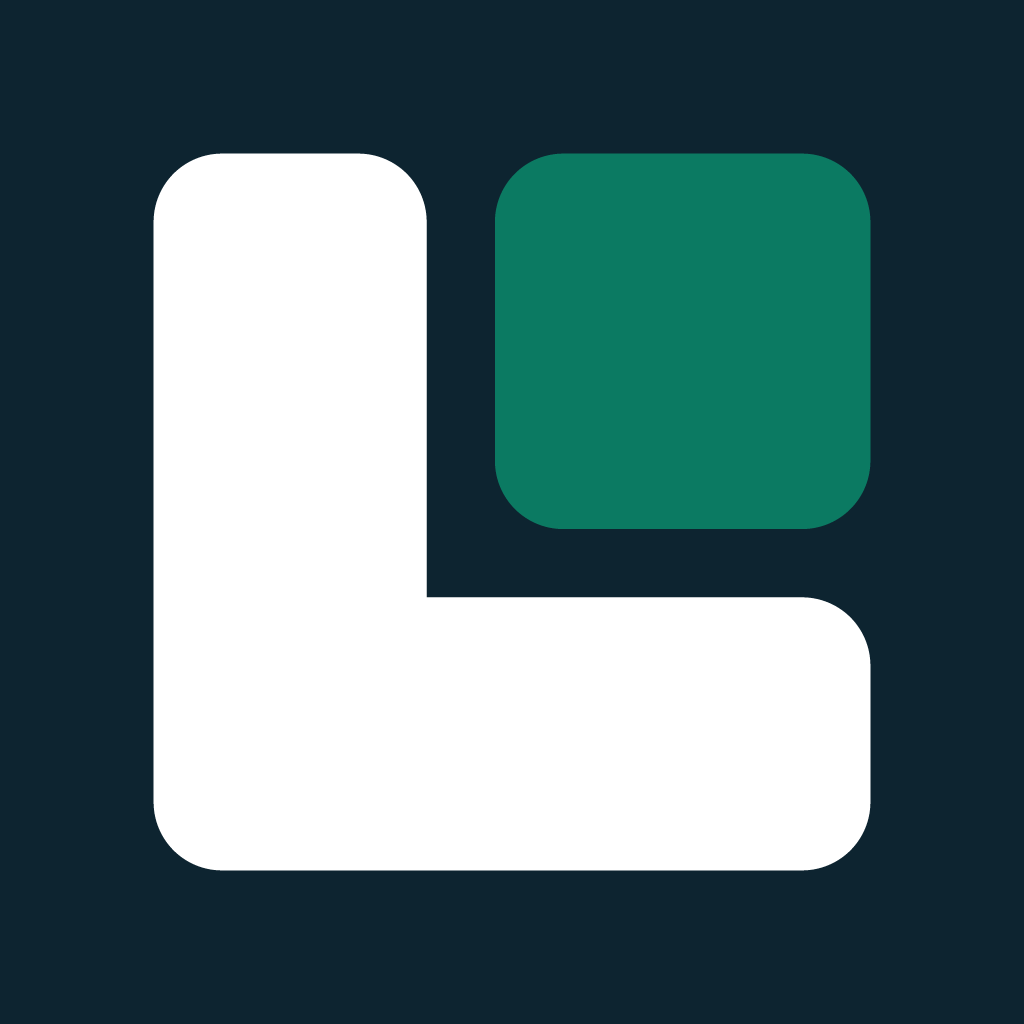
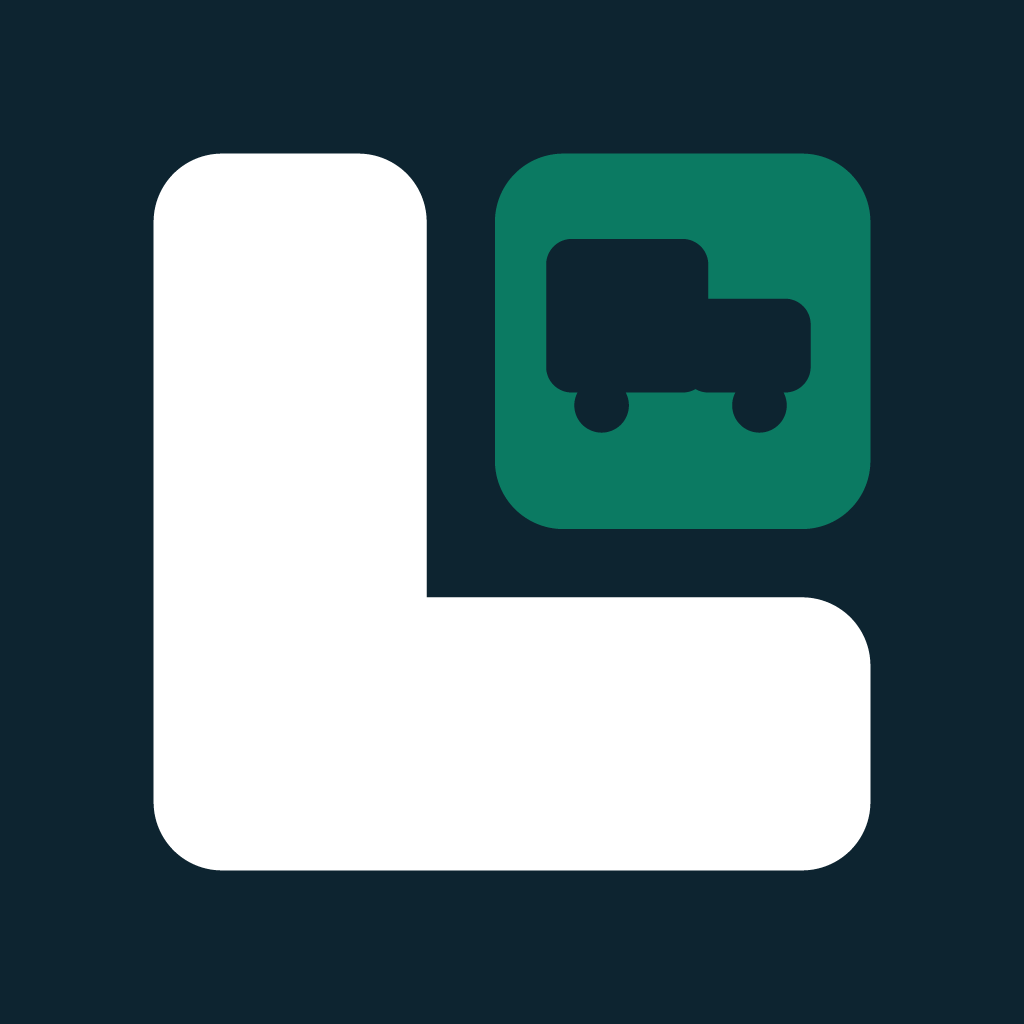
Cut a truck out of the reserve square
Asked for on the marks artifact: "this but the green block is a truck."

Cut out of the square rather than standing in for it, and that is the whole
decision. The square's mass is what carried this mark at 16px. A truck
silhouette in its place is four shapes where there was one, and by 32px they
merge into a blob with no edge of its own — precisely the cost the old box-truck
icon was already paying, and the reason it was replaced. Knocked out, the mark
degrades in the right order: a truck close up, a green square far away, and the
square was the mark to begin with.

What it trades is the meaning. The empty corner was the reserve the sizing model
holds back, so the brand colour marked the space you were right NOT to fill. A
truck fills it, and the mark now says "there is a truck" — which is what every
competitor's mark says. Taken deliberately: the risk recorded against this
direction was that it said nothing about moving on its own, and a meaning nobody
can read without being told is not doing much work. Both readings are drawn side
by side, at every size, in section 02b of the artifact.

The knockout takes the ground's colour rather than a literal ink. That matters on
the Android foreground, where the ground is null: the truck cuts through to
transparency and app.json's ink shows through, instead of baking a second copy of
the background into a layer whose entire job is to not contain one. In the SVG it
[…]

Changed region(s): [[0.5312, 0.2188, 0.8125, 0.4375]]

diff --git a/src/ui/markGeometry.ts b/src/ui/markGeometry.ts
@@ -10,9 +10,7 @@
  *
  * The mark is an L built from two cargo blocks: a tall piece standing on end and
  * a heavy base, low and forward, which is the profile of a correctly loaded bed.
- * The square fills the notch the L leaves. That notch is the point — it is the
- * safety reserve the sizing model holds back, so the brand colour marks the space
- * you were right not to fill.
+ * A green square fills the notch the L leaves, with a truck cut out of it.
  */
 
 /** Every coordinate below is on this square. Assets scale it; nothing re-draws it. */
@@ -44,6 +42,32 @@ export const RESERVE: Box = { x0: 58, y0: 18, x1: 102, y1: 62 };
 export const CORNER_R = 8;
 /** The tile's own radius, used only where nothing else supplies a mask. */
 export const TILE_R = 26;
+
+/**
+ * The truck cut out of the reserve square.
+ *
+ * Cut out rather than standing in for it, and that is the whole decision. The
+ * square's mass is what carried this mark at 16px; a truck silhouette in its
+ * place is four shapes where there was one, and by 32px they merge into a blob
+ * with no edge of its own — which is the cost the old box-truck icon was already
+ * paying. Knocked out, the mark degrades in the right order: a truck close up, a
+ * green square far away, and the square was the mark to begin with.
+ *
+ * What it trades is the meaning. The empty corner used to be the reserve the
+ * sizing model holds back, so the brand colour marked the space you were right
+ * NOT to fill. A truck fills it. That is a real loss, taken deliberately: a
+ * meaning nobody can read without being told it is not doing much work, and one
+ * moment of recognition is worth more than a private joke.
+ */
+export const TRUCK_BODY: Box = { x0: 64, y0: 28, x1: 83, y1: 46 };
+/** Overlaps the body, so the rounded corners do not leave a notch at the seam. */
+export const TRUCK_CAB: Box = { x0: 80, y0: 35, x1: 95, y1: 46 };
+export const TRUCK_R = 3;
+/** Wheels are what say "vehicle" rather than "stepped rectangle". */
+export const TRUCK_WHEELS = [
+  { cx: 70.5, cy: 47.5, r: 3.2 },
+  { cx: 89, cy: 47.5, r: 3.2 },
+] as const;
 
 export const MARK_INK = '#0D2430';
 export const MARK_WHITE = '#FFFFFF';

diff --git a/src/ui/Mark.tsx b/src/ui/Mark.tsx
@@ -1,5 +1,5 @@
 import { Platform } from 'react-native';
-import Svg, { Path, Rect } from 'react-native-svg';
+import Svg, { Circle, Path, Rect } from 'react-native-svg';
 import {
   CORNER_R,
   GRID,
@@ -8,6 +8,10 @@ import {
   MARK_WHITE,
   RESERVE,
   TILE_R,
+  TRUCK_BODY,
+  TRUCK_CAB,
+  TRUCK_R,
+  TRUCK_WHEELS,
   markPath,
 } from './markGeometry';
 
@@ -41,6 +45,31 @@ export function Mark({
         rx={CORNER_R}
         fill={MARK_PINE}
       />
+      {/*
+        Painted in ink rather than masked out. On the tile the ground IS ink, so
+        this is a true knockout; off the tile the L is ink too, so a dark truck on
+        the green square reads the same. One fill covers both, and an SVG <Mask>
+        would have needed a unique id per instance for no visible gain.
+      */}
+      <Rect
+        x={TRUCK_BODY.x0}
+        y={TRUCK_BODY.y0}
+        width={TRUCK_BODY.x1 - TRUCK_BODY.x0}
+        height={TRUCK_BODY.y1 - TRUCK_BODY.y0}
+        rx={TRUCK_R}
+        fill={MARK_INK}
+      />
+      <Rect
+        x={TRUCK_CAB.x0}
+        y={TRUCK_CAB.y0}
+        width={TRUCK_CAB.x1 - TRUCK_CAB.x0}
+        height={TRUCK_CAB.y1 - TRUCK_CAB.y0}
+        rx={TRUCK_R}
+        fill={MARK_INK}
+      />
+      {TRUCK_WHEELS.map((wheel) => (
+        <Circle key={wheel.cx} cx={wheel.cx} cy={wheel.cy} r={wheel.r} fill={MARK_INK} />
+      ))}
     </Svg>
   );
 }

diff --git a/README.md b/README.md
@@ -117,9 +117,20 @@ screen that is not in the flow would have to invent an answer to what comes next
 ### The mark
 
 An L built from two cargo blocks — a tall piece standing on end and a heavy base, low and
-forward, which is the profile of a correctly loaded bed. The green square fills the notch
-the L leaves, and that notch is the whole idea: it is the safety reserve the sizing model
-holds back, so the brand colour marks the space you were right not to fill.
+forward, which is the profile of a correctly loaded bed. A green square fills the notch the
+L leaves, with a truck cut out of it.
+
+The square began as the empty reserve — the 15% the sizing model holds back, so the brand
+colour marked the space you were right *not* to fill. That reading is gone now, traded
+deliberately for one moment of recognition: a meaning nobody can read without being told is
+not doing much work, and the mark otherwise said nothing about moving on its own.
+
+The truck is **cut out of** the square rather than standing in for it, and that is the part
+worth not undoing. The square's mass is what carried the mark at 16px. A truck silhouette in
+its place is four shapes where there was one, and by 32px they merge into a blob with no edge
+— exactly what the old box-truck icon was already suffering. Knocked out, it degrades in the
+right order: a truck close up, a green square far away, and the square was the mark to begin
+with.
 
 It replaced a side-view box truck, which was the category's stock image — the same picture
 U-Haul, Budget, PODS and Lugg resolve to — and whose only distinguishing detail, a tape

diff --git a/APP_STORE.md b/APP_STORE.md
@@ -82,8 +82,9 @@ sufficient — someone needs to swipe through every screen with the screen curta
 
 **Icon and splash screen — done**
 The mark is an L built from two cargo blocks, with a green square filling the notch the
-L leaves. That notch is the safety reserve the sizing model holds back, so the brand
-colour marks the space you were right not to fill.
+L leaves and a truck cut out of the square. The truck is knocked out rather than drawn in
+place of the square: the square's mass is what keeps the mark legible at 16px, and a
+silhouette with wheels and a stepped cab merges into a blob well before that.
 
 All four assets are generated from one geometry in `src/ui/markGeometry.ts` by
 `npm run brand:icons`, which also verifies what it wrote. The app's own `<Mark />` reads
